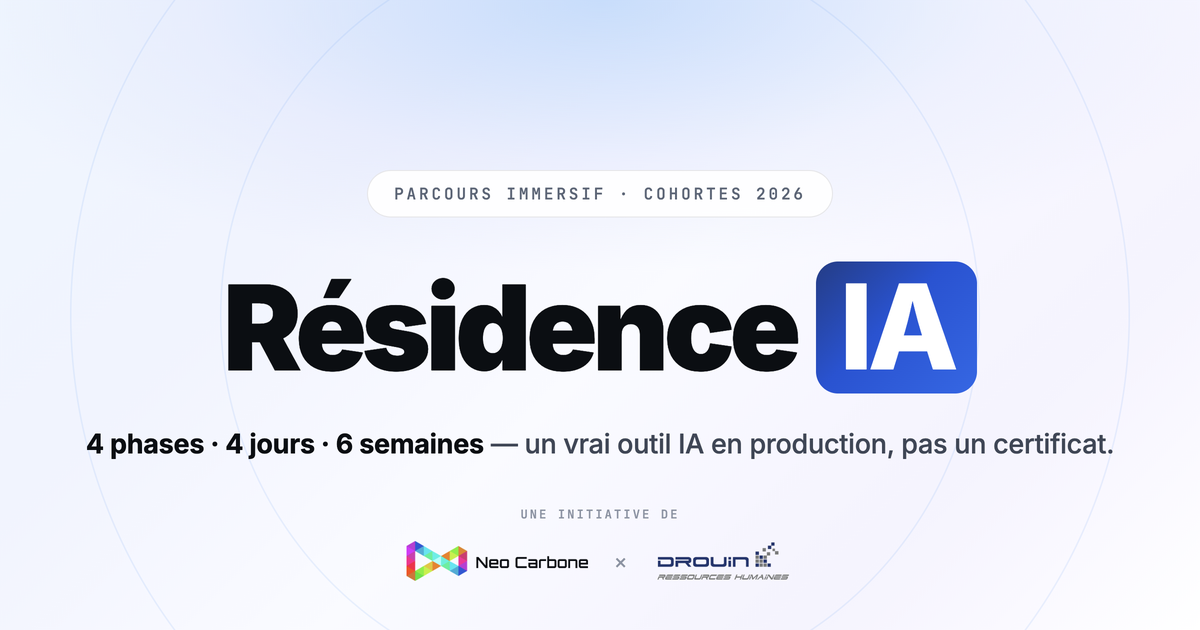
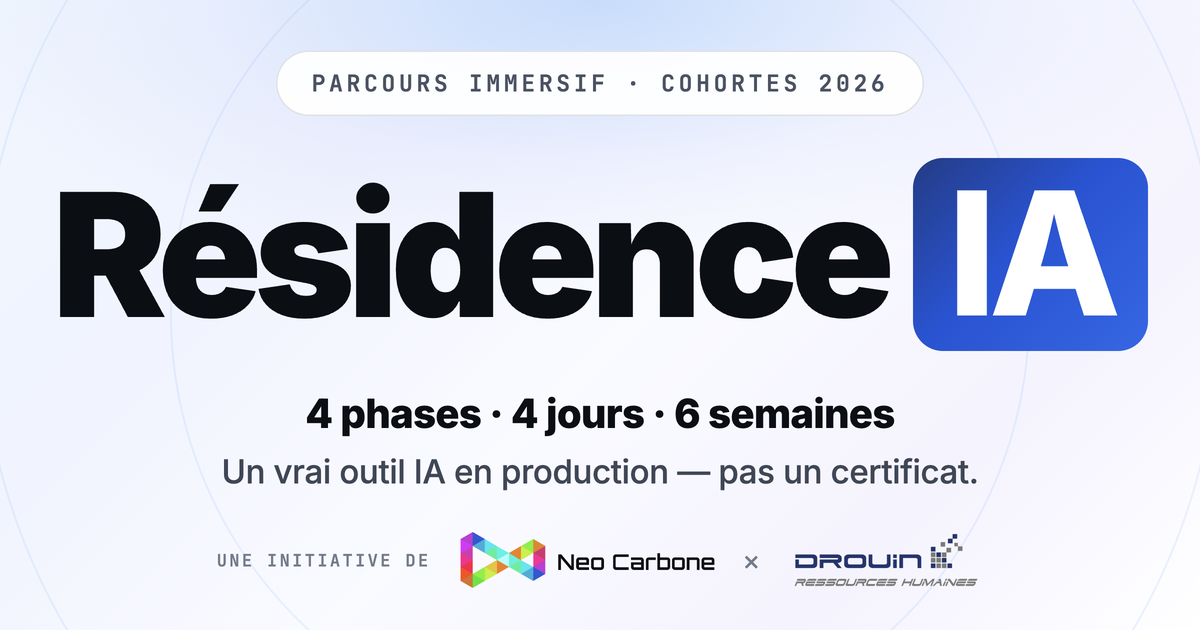
Image OG agrandie pour lisibilité aux tailles réelles d'aperçu
Titre, sous-titres et logos beaucoup plus gros, marges réduites —
le visuel reste lisible à ~500px de large (iMessage, LinkedIn).

Changed region(s): [[0.0308, 0.2413, 0.9558, 0.7841], [0.2158, 0.0603, 0.74, 0.181], [0.185, 0.8143, 0.8325, 0.9349]]

diff --git a/assets/og-template.html b/assets/og-template.html
@@ -1,5 +1,6 @@
 <!DOCTYPE html>
-<!-- Gabarit de l'image Open Graph (1200×630). Rendu puis capturé en PNG → assets/og-image.png -->
+<!-- Gabarit de l'image Open Graph (1200×630). Rendu puis capturé en PNG → assets/og-image.png.
+     Conçu pour rester lisible à ~500px de large (iMessage, LinkedIn, etc.) : gros éléments, marges réduites. -->
 <html lang="fr-CA">
 <head>
 <meta charset="UTF-8">
@@ -14,60 +15,63 @@
     background:linear-gradient(135deg,#eff6ff 0%,#f0f4ff 28%,#fafbff 52%,#f5f3ff 78%,#ffffff 100%);
     position:relative;
     display:flex;flex-direction:column;align-items:center;justify-content:center;
-    text-align:center;
+    text-align:center;padding-bottom:88px;
   }
   .glow{
     position:absolute;inset:0;
     background:radial-gradient(ellipse 80% 62% at 50% 0%, rgba(147,197,253,.5) 0%, rgba(199,210,254,.22) 42%, transparent 70%);
     pointer-events:none;
   }
-  .ring{position:absolute;border:1.5px solid rgba(96,165,250,.14);border-radius:50%;left:50%;top:50%;transform:translate(-50%,-50%);}
-  .r1{width:760px;height:760px;}
-  .r2{width:1060px;height:1060px;}
-  .r3{width:1380px;height:1380px;}
+  .ring{position:absolute;border:2px solid rgba(96,165,250,.13);border-radius:50%;left:50%;top:50%;transform:translate(-50%,-50%);}
+  .r1{width:860px;height:860px;}
+  .r2{width:1240px;height:1240px;}
   .tag{
     position:relative;
-    font-family:'JetBrains Mono',monospace;font-size:16px;font-weight:500;
-    letter-spacing:.18em;text-transform:uppercase;color:#5a6577;
-    background:rgba(255,255,255,.94);border:1px solid rgba(15,23,42,.1);
-    padding:12px 26px;border-radius:999px;margin-bottom:44px;
+    font-family:'JetBrains Mono',monospace;font-size:23px;font-weight:600;
+    letter-spacing:.16em;text-transform:uppercase;color:#485263;
+    background:rgba(255,255,255,.94);border:1.5px solid rgba(15,23,42,.12);
+    padding:16px 34px;border-radius:999px;margin-bottom:42px;
   }
   .brand{
     position:relative;
-    display:flex;align-items:center;gap:20px;
-    font-size:118px;font-weight:900;letter-spacing:-.045em;line-height:1;color:#0b0e13;
+    display:flex;align-items:center;gap:26px;
+    font-size:172px;font-weight:900;letter-spacing:-.045em;line-height:1;color:#0b0e13;
   }
   .brand .ia{
     display:inline-flex;align-items:center;justify-content:center;
-    padding:.05em .2em .07em;border-radius:22px;
+    padding:.05em .2em .07em;border-radius:30px;
     font-weight:800;color:#fff;
     background:linear-gradient(135deg,#1e3a8a 0%,#1d4ed8 45%,#2563eb 100%);
   }
   .sub{
     position:relative;
-    margin-top:34px;font-size:27px;font-weight:500;color:#3d4656;letter-spacing:-.01em;
+    margin-top:38px;font-size:40px;font-weight:800;color:#0b0e13;letter-spacing:-.015em;
   }
-  .sub b{color:#0b0e13;font-weight:700;}
+  .sub2{
+    position:relative;
+    margin-top:14px;font-size:33px;font-weight:500;color:#3d4656;letter-spacing:-.01em;
+  }
   .partners{
-    position:absolute;left:0;right:0;bottom:46px;
-    display:flex;flex-direction:column;align-items:center;gap:16px;
+    position:absolute;left:0;right:0;bottom:38px;
+    display:flex;align-items:center;justify-content:center;gap:30px;
   }
   .partners .lbl{
-    font-family:'JetBrains Mono',monospace;font-size:12px;font-weight:500;
-    letter-spacing:.18em;text-transform:uppercase;color:#8a93a3;
+    font-family:'JetBrains Mono',monospace;font-size:17px;font-weight:600;
+    letter-spacing:.14em;text-transform:uppercase;color:#717b8c;
   }
-  .logos{display:flex;align-items:center;gap:26px;}
-  .logos .neo{height:40px;width:auto;}
-  .logos .x{color:#8a93a3;font-size:20px;}
-  .logos .drouin{height:46px;width:auto;}
+  .logos{display:flex;align-items:center;gap:28px;}
+  .logos .neo{height:56px;width:auto;}
+  .logos .x{color:#717b8c;font-size:27px;}
+  .logos .drouin{height:64px;width:auto;}
 </style>
 </head>
 <body>
   <div class="glow"></div>
-  <span class="ring r1"></span><span class="ring r2"></span><span class="ring r3"></span>
+  <span class="ring r1"></span><span class="ring r2"></span>
   <div class="tag">Parcours immersif · Cohortes 2026</div>
   <div class="brand">Résidence <span class="ia">IA</span></div>
-  <div class="sub"><b>4 phases · 4 jours · 6 semaines</b> — un vrai outil IA en production, pas un certificat.</div>
+  <div class="sub">4 phases · 4 jours · 6 semaines</div>
+  <div class="sub2">Un vrai outil IA en production — pas un certificat.</div>
   <div class="partners">
     <span class="lbl">Une initiative de</span>
     <div class="logos">